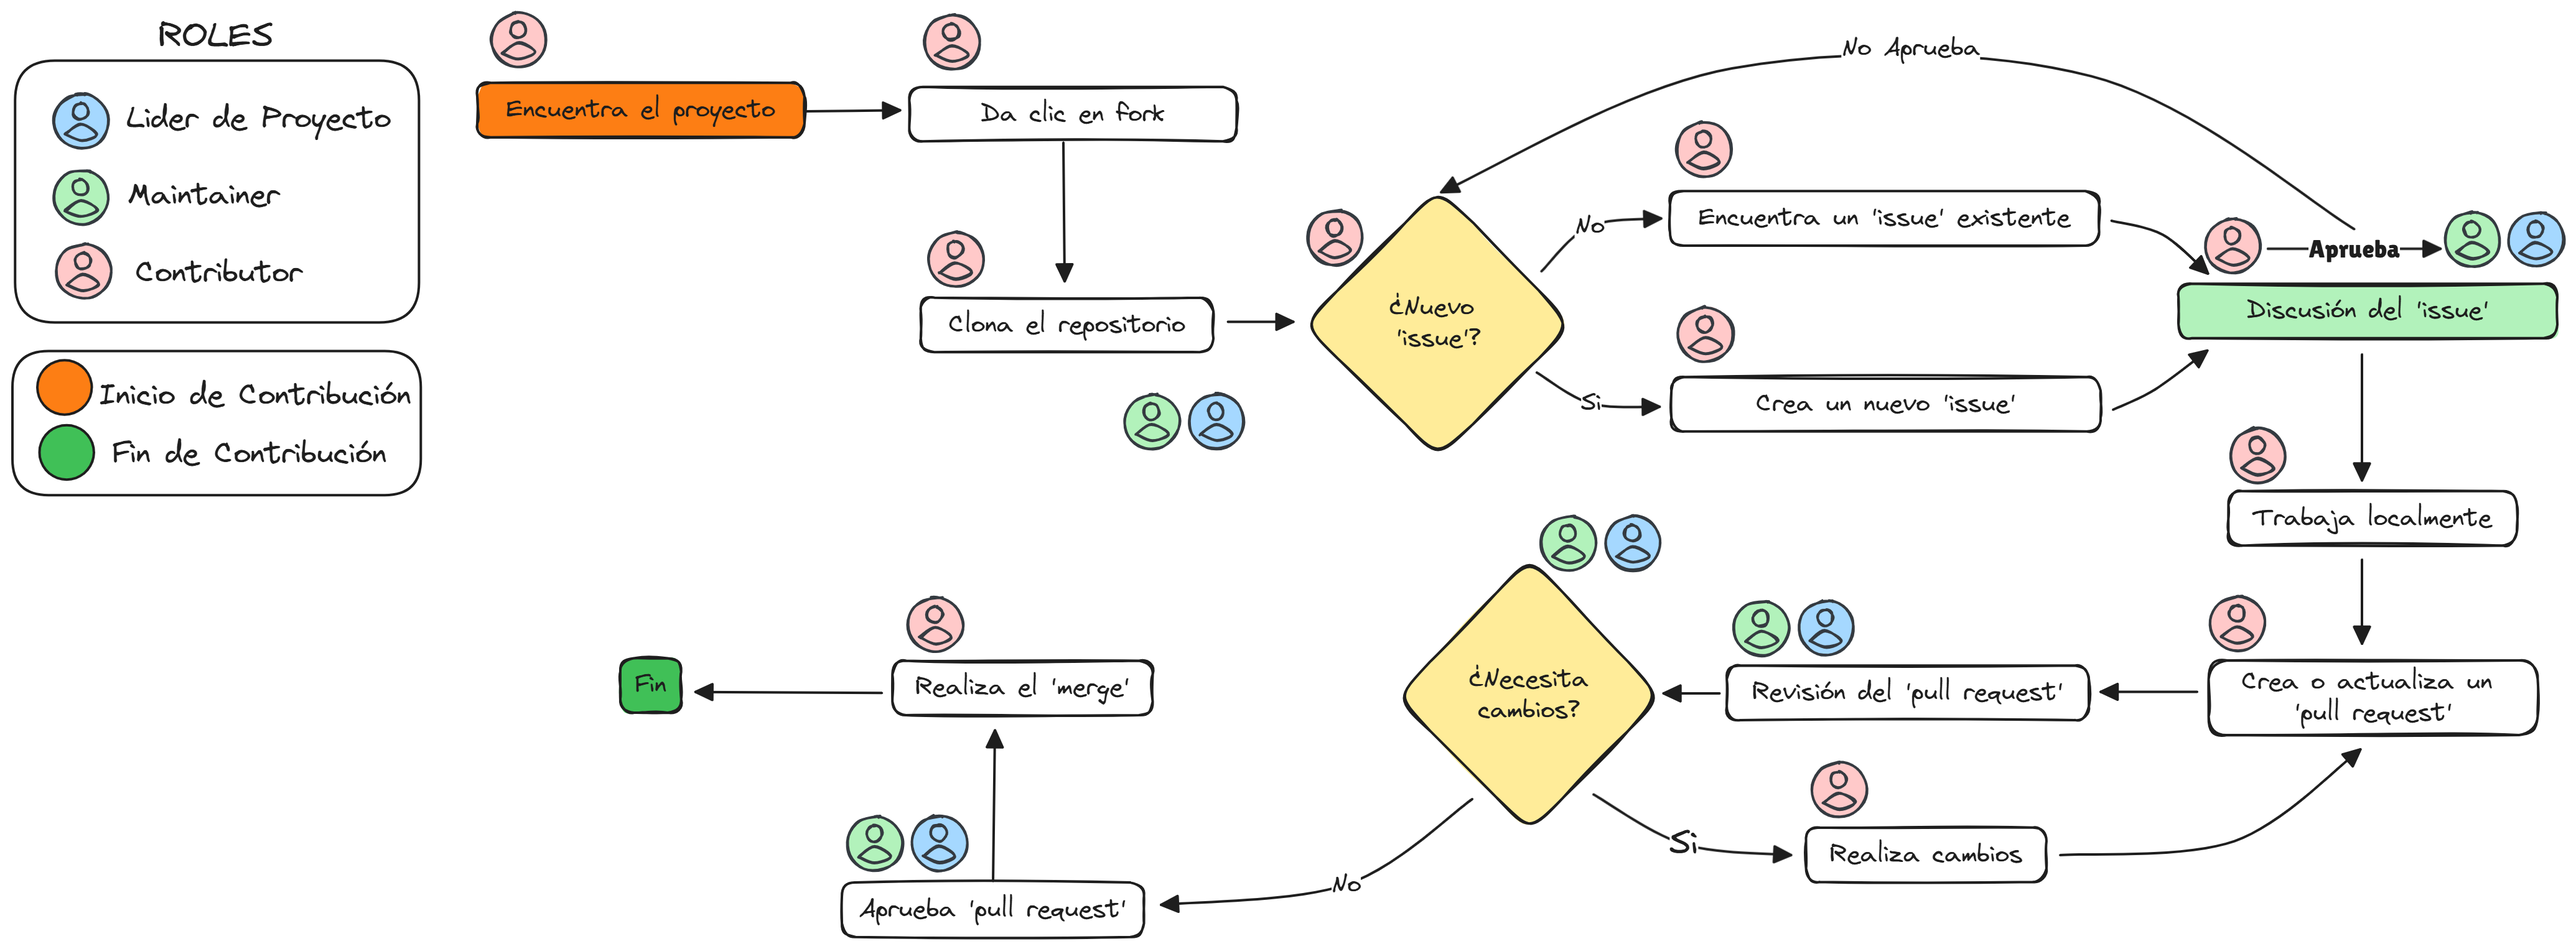
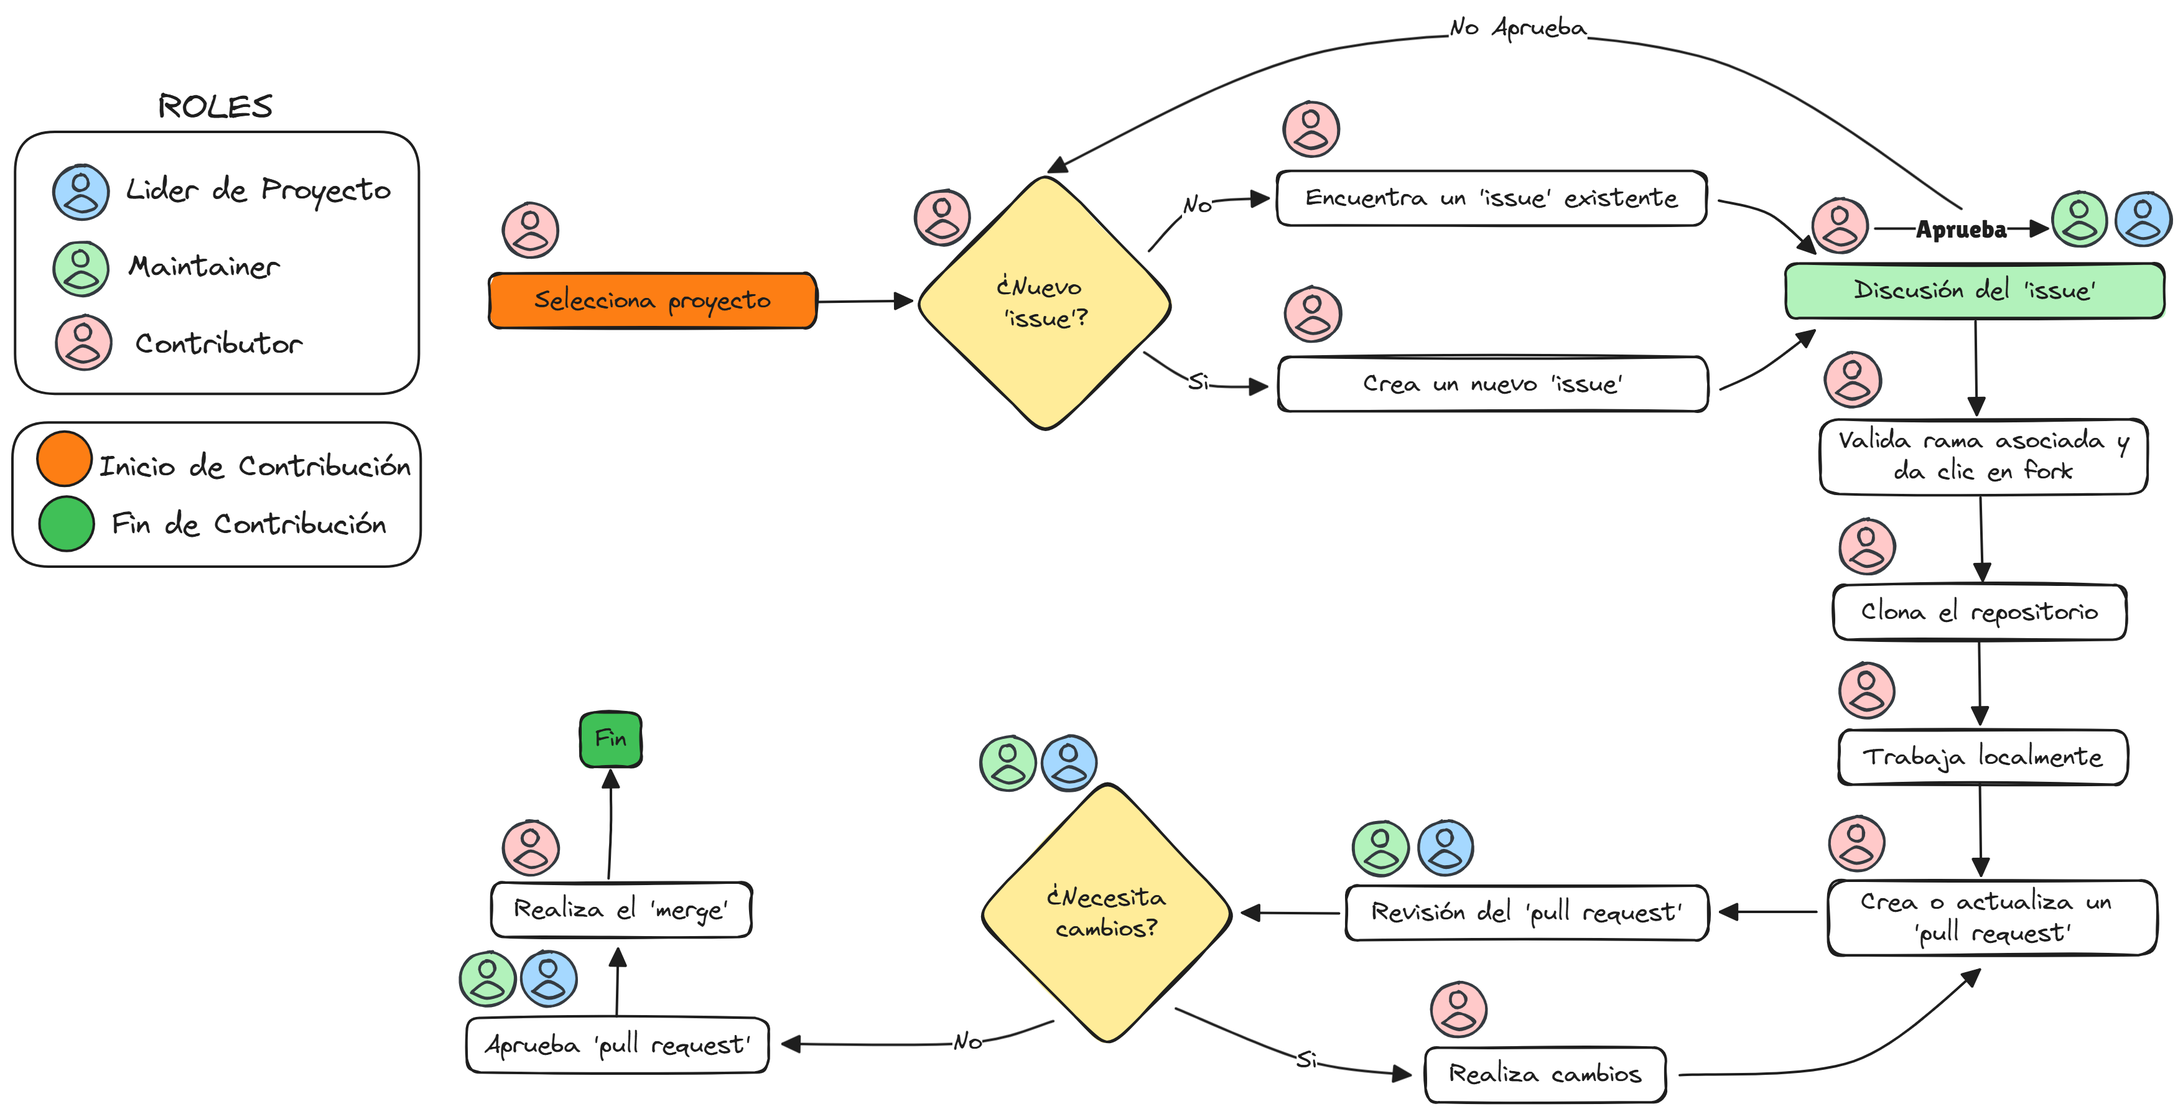
feat: Ajustes en documentacion

diff --git a/docs/guide-for-contributors.md b/docs/guide-for-contributors.md
@@ -8,60 +8,59 @@ sidebar_position: 2
 Estamos muy felices por tener tu interés en contribuir a nuestra comunidad.
 En esta guía encontraras información necesaria para entender nuestro flujo de contribución.
 
-## ¿Como puedo contribuir? 🤷♀
-El repositorio de la comunidad Bancolombia esta abierto al publico con multiples proyectos, en los cuales se pueden contribuir de manera abierta, sin requerir solicitudes de acceso del equipo Bancolombia. 
+## ¿Cómo puedo contribuir? 🤷♀
+El repositorio de la comunidad Bancolombia esta abierto al publico con múltiples proyectos, en los cuales se pueden contribuir de manera abierta, sin requerir solicitudes de acceso del equipo Bancolombia. 
 
-Podras navegar y buscar proyectos en los cuales tengas interes. 
-Luego de encontrar un proyecto, puedes seguir el siguiente flujo de contribución:
+Flujo de contribución:
 
-1. Valida la rama existente en la cual realizaras tus cambios, seleccionala y haz clic en el botón 'Fork' en la esquina superior derecha del proyecto.
+**1.** Selecciona el proyecto que sea de tu interés.
 
-2. Clona tu copia del repositorio a tu máquina local.
+**2.** Crea o selecciona un Issue por resolver, debes generar "discusión" informando tu interés en solucionar el issue. De allí, el equipo decidirá si lo acepta y si asigna la capacidad.
 
-3. Crea o selecciona un Issue por resolver, debe generar "discusión" informando su interés en solucionar el issue. De allí, el equipo debe responder si lo acepta y si asigna la capacidad.
+**3.** Valida la rama asociada al issue, en la cual realizarás tus cambios, seleccónala y haz clic en el botón 'Fork' en la esquina superior derecha del proyecto con todas las ramas.
 
-4. Crea una rama para tu característica o arreglo de bug. Es importante que el nombre de la rama sea descriptivo del cambio que estás realizando.
+**4.** Clona tu copia del repositorio a tu máquina local.
 
-5. Haz los cambios necesarios en tu rama. Haz commit de tus cambios y sube tu rama a GitHub.
+**5.** Has la contribución en la rama de interés en tu fork.
 
-6. Ve a la página de Pull Requests en el repositorio original y crea un nuevo Pull Request desde tu rama a la rama correspondiente.
+**6.** Ve a la página de Pull Requests en el repositorio original y crea un nuevo Pull Request desde tu rama a la rama correspondiente.
 
 ## Flujo de Contribución ✨
 ![FlujoContribuidor](img/contributor_flow.png)
 *Haz clic [aquí](img/contributor_flow.png) para ver la imagen en tamaño completo.*
 
-En el proceso de contribución, debes tener presente los lineamientos dados para la comunidad  OpenSource Bancolombia.
+En el proceso de contribución, debes tener presente los lineamientos dados para la comunidad  Open Source Bancolombia.
 
 ## Gestión de issues 💡
 
 Los issues constituyen una pieza clave en la colaboración y organización del desarrollo de software Open Source. Una adecuada gestión de estos permite una comunicación eficiente, organización clara del trabajo pendiente y una participación transparente de la comunidad.
 
-Los `manteiners` y `contribuidores` del proyecto pueden abrir issues para reportar incidencias, sugerir mejoras o hacer preguntas.
+Los `mantainers` y `contribuidores` del proyecto pueden abrir issues para reportar incidencias, sugerir mejoras o hacer preguntas.
 
-Existen etiquetas definidas por la comunidad OpenSource Bancolombia que seran obligatorias. Sin embargo, cada proyecto puede tener etiquetas que le ayuden dentro de su proceso ágil. 
+Existen etiquetas definidas por la comunidad Open Source Bancolombia que seran obligatorias. Sin embargo, cada proyecto puede tener etiquetas que le ayuden dentro de su proceso ágil. 
 
 Para más detalle de como  gestionar issues: desde su creación, etiquetado y discusión, hasta su eventual aprobación o rechazo por favor consulta la documentación disponible [Lineamientos de Contribución](category/lineamientos-de-contribución)
 
 ## Estructura y uso de branches 🌳
 
-Al realizar contribuciones a nuestros proyectos Open Source, **deberás trabajar a partir de una copia (fork)** del proyecto en el que estés colaborando. En estos casos, tendrás la responsabilidad de adoptar un flujo de trabajo estructurado; te recomendamos utilizar **Trunk-based**, un modelo que emplea principalmente tres tipos de ramas:
+Al realizar contribuciones a nuestros proyectos Open Source, **deberás trabajar a partir de una copia (fork)** del proyecto en el que estés colaborando. En estos casos, tendrás la responsabilidad de adoptar un flujo de trabajo estructurado; te recomendamos utilizar **Trunk-based**, un modelo que emplea principalmente dos tipos de ramas:
 
-* `trunk o main`: Unica rama principal, donde se integran cambios directamente.
+* `trunk o main`: Única rama principal, donde se integran cambios directamente.
 * `release` : Versiones liberadas.
 
 ## Documentación inicial 📋
 
-La documentación base de un proyecto OpenSource es fundamental para asegurar que todos los colaboradores comprendan y puedan contribuir eficazmente al proyecto. Esta documentación debe incluir: Información funcional, Documentación Técnica, Estándares, políticas, guías de contribución.
+La documentación base de un proyecto Open Source es fundamental para asegurar que todos los colaboradores comprendan y puedan contribuir eficazmente al proyecto. Esta documentación incluye: Información funcional, Documentación Técnica, Estándares, políticas, guías de contribución.
 
 Existen algunos tipos de archivos que nos permitiran manejar documentación dentro de los proyectos de la comunidad Open Source Bancolombia, como los son:
 
 **README** 📋
 
-Un archivo `README.md` es un documento de texto utilizado principalmente en repositorios de código fuente para proporcionar información esencial sobre el proyecto. El nombre "README" implica que este archivo debe ser leído primero por los usuarios y contribuidores para comprender la naturaleza y el propósito del proyecto. La extensión .md indica que el archivo está escrito en Markdown, un lenguaje de marcado ligero que permite formatear texto con encabezados, listas, enlaces, y otros elementos de forma sencilla.
+En el `README.md` encontrarás la información introductoria del proyecto. Te recomendamos lo leas detenidamente para que puedas consumirlo y tener tu punto de partida en la contribución al mismo.
 
 **LICENSE** 📋
 
-El archivo `LICENSE.md` contiene la licencia y las restricciones de uso para el código fuente, al tratarse repositoros open Source esta abierto a licencias que pueden permitir, el uso, modificacion, copia, etc. del Código fuente, como por ejemplo (MIT license, Apache-2.0 license).
+El archivo `LICENSE.md` contiene la licencia y las restricciones de uso para el código fuente, al tratarse repositoros Open Source esta abierto a licencias que pueden permitir, el uso, modificacion, copia, etc. del Código fuente, como por ejemplo (MIT license, Apache-2.0 license).
 
 Además, el documento proporciona un correo electrónico de contacto para preguntas o comentarios sobre su contenido.
 
@@ -86,7 +85,7 @@ Para la comunidad Bancolombia se determino algunas plantillas que seran automati
 Puede validar las plantillas actuales en 👉[Template PR](Lineamientos-contribucion/template-pr.md)
 
 ## Definición de roles y responsabilidades 📜
-Cada proyecto opensource tendra personas con roles específicos como `Project Lead`, `Manteiner` o `Contributor`, que son fundamentales para la seguridad, como para la eficiencia en el trabajo en equipo en un proyecto OpenSource. 
+Cada proyecto Open Source tendra personas con roles específicos como `Project Lead`, `Mantainer` o `Contributor`, que son fundamentales para la seguridad, como para la eficiencia en el trabajo en equipo en un proyecto Open Source. 
  
 Para conocer mas sobre como convertirse en **Maintainer** o **Trusted Committer**: 
 👉 [Como ser](category/como-ser).

diff --git a/docs/Como-ser/como-convertirse-trusted-committer.md b/docs/Como-ser/como-convertirse-trusted-committer.md
@@ -3,7 +3,7 @@ sidebar_position: 2
 ---
 # Trusted Committer
 
-Un "Trusted Committer" es un rol en comunidades de código abierto y InnerSource. Es una persona confiable y experimentada que mentoriza a otros contribuidores, garantiza la calidad técnica del producto, revisa el código y ayuda a que las contribuciones se integren al proyecto. El rol es vital para el éxito de los proyectos al asegurar la salud tanto del código como de la comunidad. 
+Un "Trusted Committer" es un rol en comunidades de código abierto. Es una persona confiable y experimentada que mentoriza a otros contribuidores, garantiza la calidad técnica del producto, revisa el código y ayuda a que las contribuciones se integren al proyecto. El rol es vital para el éxito de los proyectos al asegurar la salud tanto del código como de la comunidad. 
 
 # Responsabilidades:
 

diff --git a/docs/Como-ser/como-convertirse-maintainer.md b/docs/Como-ser/como-convertirse-maintainer.md
@@ -3,7 +3,7 @@ sidebar_position: 1
 ---
 # Maintainer
 
-Un maintainer de proyecto open source es la persona responsable de supervisar el desarrollo, el mantenimiento y el progreso general de un proyecto de software de código abierto. 
+Un maintainer de proyecto Open Source es la persona responsable de supervisar el desarrollo, el mantenimiento y el progreso general de un proyecto de software de código abierto. 
 Su función principal es asegurar que el software se mantenga funcional, seguro y alineado con las necesidades y objetivos definidos para la comunidad. 
 
 # Responsabilidades:
